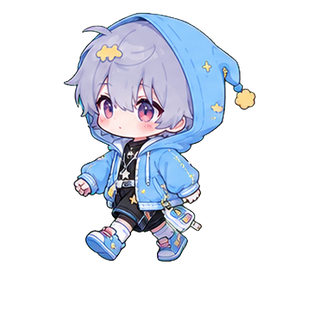
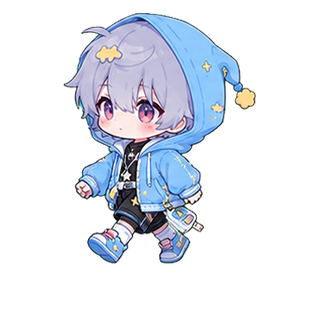
Improve walking gait animation

diff --git a/build_fullbody_assets.py b/build_fullbody_assets.py
@@ -38,12 +38,17 @@ STATE_FRAMES = {
         ("idle_stand", 0, 0),
     ],
     "walking": [
-        ("walk_a", 0, 2),
-        ("walk_a", 0, -2),
-        ("walk_b", 0, 1),
-        ("walk_b", 0, -2),
-        ("walk_a", 0, 2),
-        ("walk_b", 0, 0),
+        # 8-phase gait: contact -> rebound -> lift -> switch, then the other
+        # leg. We avoid inserting a straight idle frame because it makes the
+        # run look like it briefly stops between steps.
+        ("walk_a", -2, 3, -2.0, 1.014, 0.984),
+        ("walk_a", -1, 1, -1.2, 1.006, 0.996),
+        ("walk_a", 0, -2, -0.3, 0.994, 1.014),
+        ("walk_b", 1, -1, 0.8, 0.998, 1.006),
+        ("walk_b", 2, 3, 2.0, 1.014, 0.984),
+        ("walk_b", 1, 1, 1.2, 1.006, 0.996),
+        ("walk_b", 0, -2, 0.3, 0.994, 1.014),
+        ("walk_a", -1, -1, -0.8, 0.998, 1.006),
     ],
     "typing": [
         ("typing_a", 0, 4),
@@ -204,13 +209,36 @@ def remove_detached_lower_artifacts(image):
     return cleaned if removed else image
 
 
-def fit_to_frame(image, dx=0, dy=0, clean_lower_artifacts=False):
+def fit_to_frame(
+    image,
+    dx=0,
+    dy=0,
+    clean_lower_artifacts=False,
+    angle=0,
+    scale_x=1.0,
+    scale_y=1.0,
+):
     image = trim_alpha(image).convert("RGBA")
     max_w = FRAME_SIZE[0] - 28
     max_h = FRAME_SIZE[1] - 28
     scale = min(max_w / image.width, max_h / image.height)
     size = (max(1, round(image.width * scale)), max(1, round(image.height * scale)))
     image = image.resize(size, Image.Resampling.LANCZOS)
+    if scale_x != 1.0 or scale_y != 1.0:
+        image = image.resize(
+            (
+                max(1, round(image.width * scale_x)),
+                max(1, round(image.height * scale_y)),
+            ),
+            Image.Resampling.LANCZOS,
+        )
+    if angle:
+        image = image.rotate(
+            angle,
+            Image.Resampling.BICUBIC,
+            expand=True,
+            fillcolor=(0, 0, 0, 0),
+        )
 
     frame = Image.new("RGBA", FRAME_SIZE, (0, 0, 0, 0))
     x = (FRAME_SIZE[0] - image.width) // 2 + dx
@@ -227,6 +255,15 @@ def clear_state_dir(path):
         frame.unlink()
 
 
+def parse_frame_spec(spec):
+    """Support simple specs and richer motion specs for walking frames."""
+    pose_name, dx, dy, *motion = spec
+    angle = motion[0] if len(motion) > 0 else 0
+    scale_x = motion[1] if len(motion) > 1 else 1.0
+    scale_y = motion[2] if len(motion) > 2 else 1.0
+    return pose_name, dx, dy, angle, scale_x, scale_y
+
+
 def main():
     sheet = Image.open(SHEET_PATH).convert("RGBA")
     pose_images = {name: crop_cell(sheet, index) for name, index in POSES.items()}
@@ -235,12 +272,16 @@ def main():
     for state, frames in STATE_FRAMES.items():
         state_dir = OUTPUT_DIR / state
         clear_state_dir(state_dir)
-        for i, (pose_name, dx, dy) in enumerate(frames):
+        for i, spec in enumerate(frames):
+            pose_name, dx, dy, angle, scale_x, scale_y = parse_frame_spec(spec)
             frame = fit_to_frame(
                 pose_images[pose_name],
                 dx,
                 dy,
                 clean_lower_artifacts=(state == "walking"),
+                angle=angle,
+                scale_x=scale_x,
+                scale_y=scale_y,
             )
             frame.save(state_dir / f"frame_{i:03d}.png")
 

diff --git a/variants/desktop_pet_girl/build_fullbody_assets.py b/variants/desktop_pet_girl/build_fullbody_assets.py
@@ -38,12 +38,17 @@ STATE_FRAMES = {
         ("idle_stand", 0, 0),
     ],
     "walking": [
-        ("walk_a", 0, 2),
-        ("walk_a", 0, -2),
-        ("walk_b", 0, 1),
-        ("walk_b", 0, -2),
-        ("walk_a", 0, 2),
-        ("walk_b", 0, 0),
+        # 8-phase gait: contact -> rebound -> lift -> switch, then the other
+        # leg. We avoid inserting a straight idle frame because it makes the
+        # run look like it briefly stops between steps.
+        ("walk_a", -2, 3, -2.0, 1.014, 0.984),
+        ("walk_a", -1, 1, -1.2, 1.006, 0.996),
+        ("walk_a", 0, -2, -0.3, 0.994, 1.014),
+        ("walk_b", 1, -1, 0.8, 0.998, 1.006),
+        ("walk_b", 2, 3, 2.0, 1.014, 0.984),
+        ("walk_b", 1, 1, 1.2, 1.006, 0.996),
+        ("walk_b", 0, -2, 0.3, 0.994, 1.014),
+        ("walk_a", -1, -1, -0.8, 0.998, 1.006),
     ],
     "typing": [
         ("typing_a", 0, 4),
@@ -204,13 +209,36 @@ def remove_detached_lower_artifacts(image):
     return cleaned if removed else image
 
 
-def fit_to_frame(image, dx=0, dy=0, clean_lower_artifacts=False):
+def fit_to_frame(
+    image,
+    dx=0,
+    dy=0,
+    clean_lower_artifacts=False,
+    angle=0,
+    scale_x=1.0,
+    scale_y=1.0,
+):
     image = trim_alpha(image).convert("RGBA")
     max_w = FRAME_SIZE[0] - 28
     max_h = FRAME_SIZE[1] - 28
     scale = min(max_w / image.width, max_h / image.height)
     size = (max(1, round(image.width * scale)), max(1, round(image.height * scale)))
     image = image.resize(size, Image.Resampling.LANCZOS)
+    if scale_x != 1.0 or scale_y != 1.0:
+        image = image.resize(
+            (
+                max(1, round(image.width * scale_x)),
+                max(1, round(image.height * scale_y)),
+            ),
+            Image.Resampling.LANCZOS,
+        )
+    if angle:
+        image = image.rotate(
+            angle,
+            Image.Resampling.BICUBIC,
+            expand=True,
+            fillcolor=(0, 0, 0, 0),
+        )
 
     frame = Image.new("RGBA", FRAME_SIZE, (0, 0, 0, 0))
     x = (FRAME_SIZE[0] - image.width) // 2 + dx
@@ -227,6 +255,15 @@ def clear_state_dir(path):
         frame.unlink()
 
 
+def parse_frame_spec(spec):
+    """Support simple specs and richer motion specs for walking frames."""
+    pose_name, dx, dy, *motion = spec
+    angle = motion[0] if len(motion) > 0 else 0
+    scale_x = motion[1] if len(motion) > 1 else 1.0
+    scale_y = motion[2] if len(motion) > 2 else 1.0
+    return pose_name, dx, dy, angle, scale_x, scale_y
+
+
 def main():
     sheet = Image.open(SHEET_PATH).convert("RGBA")
     pose_images = {name: crop_cell(sheet, index) for name, index in POSES.items()}
@@ -235,12 +272,16 @@ def main():
     for state, frames in STATE_FRAMES.items():
         state_dir = OUTPUT_DIR / state
         clear_state_dir(state_dir)
-        for i, (pose_name, dx, dy) in enumerate(frames):
+        for i, spec in enumerate(frames):
+            pose_name, dx, dy, angle, scale_x, scale_y = parse_frame_spec(spec)
             frame = fit_to_frame(
                 pose_images[pose_name],
                 dx,
                 dy,
                 clean_lower_artifacts=(state == "walking"),
+                angle=angle,
+                scale_x=scale_x,
+                scale_y=scale_y,
             )
             frame.save(state_dir / f"frame_{i:03d}.png")
 

diff --git a/state_machine.py b/state_machine.py
@@ -6,7 +6,7 @@ import time
 from PyQt6.QtCore import QObject, pyqtSignal, QTimer
 from config import (
     PetState, STATE_PRIORITY, STATE_TRANSITION,
-    IDLE_INTERVAL, WALK_INTERVAL, SLEEP_AFTER_IDLE
+    IDLE_INTERVAL, WALK_INTERVAL, WALK_STEP_INTERVAL, SLEEP_AFTER_IDLE
 )
 
 
@@ -126,7 +126,7 @@ class StateMachine(QObject):
             # 随机走路时长
             duration = random.randint(2000, 5000)
             self.walk_timer.start(duration)
-            self.walk_step_timer.start(50)  # 每50ms走一步
+            self.walk_step_timer.start(WALK_STEP_INTERVAL)
             # 随机方向
             self.walk_direction = random.choice([-1, 1])
         

diff --git a/variants/desktop_pet_girl/state_machine.py b/variants/desktop_pet_girl/state_machine.py
@@ -6,7 +6,7 @@ import time
 from PyQt6.QtCore import QObject, pyqtSignal, QTimer
 from config import (
     PetState, STATE_PRIORITY, STATE_TRANSITION,
-    IDLE_INTERVAL, WALK_INTERVAL, SLEEP_AFTER_IDLE
+    IDLE_INTERVAL, WALK_INTERVAL, WALK_STEP_INTERVAL, SLEEP_AFTER_IDLE
 )
 
 
@@ -126,7 +126,7 @@ class StateMachine(QObject):
             # 随机走路时长
             duration = random.randint(2000, 5000)
             self.walk_timer.start(duration)
-            self.walk_step_timer.start(50)  # 每50ms走一步
+            self.walk_step_timer.start(WALK_STEP_INTERVAL)
             # 随机方向
             self.walk_direction = random.choice([-1, 1])
         

diff --git a/config.py b/config.py
@@ -34,6 +34,7 @@ IDLE_INTERVAL = 3000  # 待机状态切换间隔(ms)
 WALK_SPEED = 2  # 走路速度(像素/帧)
 WALK_RANGE = 48  # 自动走路时离当前位置的最大距离(像素)
 WALK_INTERVAL = 5000  # 走路触发间隔(ms)
+WALK_STEP_INTERVAL = int(1000 / FPS)  # 走路位移和动画帧同步，避免腿在闪、身体在滑
 SLEEP_AFTER_IDLE = 30000  # 多久无操作后睡觉(ms)
 
 # 键盘互动

diff --git a/variants/desktop_pet_girl/config.py b/variants/desktop_pet_girl/config.py
@@ -34,6 +34,7 @@ IDLE_INTERVAL = 3000  # 待机状态切换间隔(ms)
 WALK_SPEED = 2  # 走路速度(像素/帧)
 WALK_RANGE = 48  # 自动走路时离当前位置的最大距离(像素)
 WALK_INTERVAL = 5000  # 走路触发间隔(ms)
+WALK_STEP_INTERVAL = int(1000 / FPS)  # 走路位移和动画帧同步，避免腿在闪、身体在滑
 SLEEP_AFTER_IDLE = 30000  # 多久无操作后睡觉(ms)
 
 # 键盘互动

diff --git a/docs/DEVELOPMENT.md b/docs/DEVELOPMENT.md
@@ -170,16 +170,24 @@ hdiutil create -volname DesktopPet -srcfolder dist/DesktopPet.app -ov -format UD
 - `__pycache__/`
 - 私人原始图片
 
-## 九、继续优化跑步动作的方向
+## 九、跑步动作说明与继续优化方向
 
-当前走路动作已经修复了裁脚和脚底残影，但动作本身仍可继续优化。推荐方向：
+当前走路动作已经从原来的 6 帧 A/B 循环升级为 8 帧步态循环，并让窗口位移计时与 `FPS` 对齐。这样可以减少“岔开腿图片一直闪、身体却在滑”的感觉。
+
+当前已做：
+
+- `walking` 从 6 帧增加到 8 帧
+- 用接触、回弹、抬脚、换脚的节奏组织帧
+- 对源图加入轻微倾斜、压缩/伸展和上下起伏
+- `WALK_STEP_INTERVAL = int(1000 / FPS)`，让走路位移和动画帧同步
+
+受限于源角色表只有 `walk_a` 和 `walk_b` 两个走路姿势，这仍然不是逐关节动画。若想继续提升真实感，推荐方向：
 
 - 从 2 个 walk 姿势扩展到 4 个或 6 个基础姿势
-- 在 `STATE_FRAMES["walking"]` 中加入接触、下压、经过、抬脚等中间帧
+- 在角色源表中提供接触、下压、经过、抬脚等中间帧
 - 给身体增加轻微上下起伏
 - 手臂与腿做相反方向摆动
 - 转向时保持同一帧镜像，不重新生成另一套人物
 - 保持每帧脚底位置稳定，避免人物像在“闪烁跳帧”
 
 如果对新跑步动作不满意，可以回退到提交的稳定版本，然后只重做 `walking` 相关素材和状态帧配置。
-

diff --git a/docs/CHARACTER_TEMPLATE.md b/docs/CHARACTER_TEMPLATE.md
@@ -89,7 +89,7 @@ assets/blue_chibi/selfie/
 
 ## 四、走路动作注意事项
 
-当前基础版走路帧使用 `walk_a` 和 `walk_b` 两个姿势循环，再配合窗口移动、上下起伏和方向翻转。
+当前基础版会用 `walk_a` 和 `walk_b` 两个源姿势生成 8 帧步态循环：接触、回弹、抬脚、换脚，然后进入另一只脚的同样阶段。脚本会加入轻微倾斜、压缩/伸展和上下起伏，避免只有两张岔腿图来回闪。
 
 好看的走路素材应该满足：
 
@@ -101,7 +101,7 @@ assets/blue_chibi/selfie/
 - 脚不要贴画布底边
 - 不要让鞋子和腿被衣服完全遮住
 
-如果要继续优化跑步动作，推荐把 `walking` 从 6 帧扩展到 8 或 10 帧，并在 `build_fullbody_assets.py` 的 `STATE_FRAMES["walking"]` 中加入更多中间姿势。
+如果要继续优化跑步动作，推荐提供更多源姿势（例如 `walk_contact`、`walk_down`、`walk_pass`、`walk_up`），再在 `build_fullbody_assets.py` 的 `STATE_FRAMES["walking"]` 中加入更多真实中间帧。只有 `walk_a/walk_b` 两张源图时，脚本会尽量通过变形缓和过渡，但无法做到真正逐关节动画。
 
 ## 五、打字桌面 UI 素材
 
@@ -214,4 +214,3 @@ cp -R variants/desktop_pet_girl variants/desktop_pet_new_style
 - 打字时真实键位能高亮
 - 手部下压和弹回节奏自然
 - `dist/`、`.dmg`、`.venv/` 不提交到 Git
-

diff --git a/README.md b/README.md
@@ -24,6 +24,8 @@
 - BongoCat 风格键盘互动：监听真实按键，实时高亮键盘键位
 - 打字时小人趴在桌边，左手按真实敲击节奏下压/弹回
 - 走路窗口 mask 会按每帧同步刷新，避免脚、头发被裁切
+- 跑步/走路已升级为 8 帧步态循环：接触、回弹、抬脚、换脚，比原来的两张岔腿图来回闪更顺
+- 走路位移节奏与动画帧率同步，减少“身体在滑、腿在闪”的感觉
 - 走路素材已清理脚底独立残影/倒影组件
 - macOS 打包支持，输出 `.app`，可再制作 `.dmg` 分享包
 

diff --git a/variants/desktop_pet_girl/README.md b/variants/desktop_pet_girl/README.md
@@ -2,8 +2,6 @@
 
 这是独立于男生版项目的女生版桌宠：融合 **BongoCat** 键盘互动 + **OnePic Desktop Pet** 多状态动画。
 
-本目录是主仓库中的独立角色变体，运行、素材生成和打包流程与根目录默认版本一致；如果要继续制作其他风格角色，也可以复制本目录作为模板。
-
 ## ✨ 功能特性
 
 ### 🎭 多种状态动画
